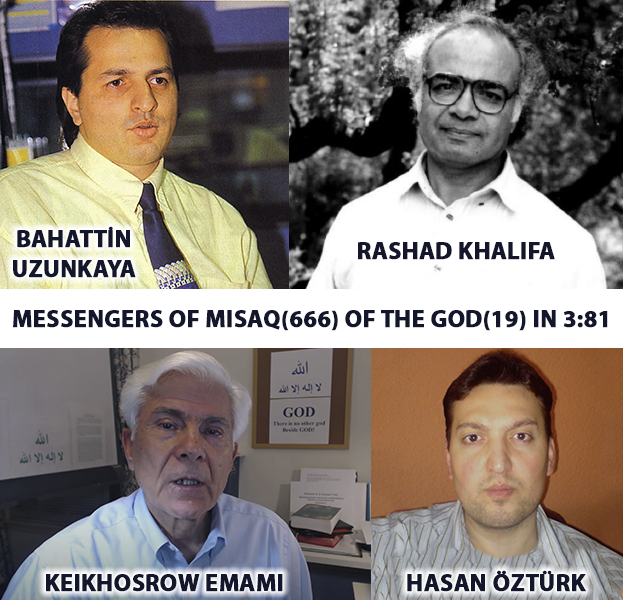
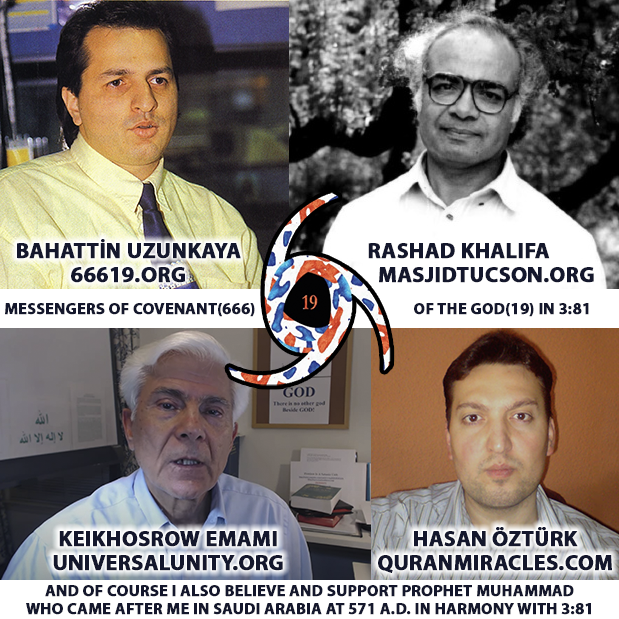
19

diff --git a/no_more_a_secret/index.html b/no_more_a_secret/index.html
@@ -110,11 +110,11 @@
 			<br><br>o christians! <span class="yellow">your being a transgressed society</span> can NOT cause no more of my hiding of that <span class="yellow">I am The Messiah Jesus: A Slave of THE GOD</span>, and EXACT KNOWLEDGE OF THE HOUR OF THE RESURRECTION, and what you call the number of the beast <span class="yellow">666</span>, as in fact signifies <span class="yellow">THE COVENANT misaQ(666) OF THE GOD</span> with HIS Prophets like me that <span class="yellow">we Prophets PROMISE TO THE GOD THAT WE WILL CERTAINLY BELIEVE AND CERTAINLY SUPPORT MESSENGERS OF THE GOD WHO CAME AFTER US(HENCE THE GOD HAS RESURRECTED ME)</span>, FOR ME THOSE MESSENGERS OF THE GOD WHO CAME AFTER ME ARE:
 				
 			<br>
-			<br>5. <a target="_blank" href="http://QURANMIRACLES.COM">HASAN ÖZTÜRK</a> <> (LIVING IN GERMANY & TURKEY),
-			<br>4. <a target="_blank" href="https://UNIVERSALUNITY.ORG">KEIKHOSROW EMAMI</a> <> (LIVING IN USA),
-			<br>3. <a target="_blank" href="https://web.archive.org/web/20111227043808/http://66619.org/">BAHATTİN UZUNKAYA</a> <> (LIVED IN TURKEY),
-			<br>2. <a target="_blank" href="https://MASJIDTUCSON.ORG">RASHAD KHALIFA</a> <> (LIVED IN USA),
-			<br>1. <a target="_blank" href="https://HONOURABLEQURAN.BLOGSPOT.COM">MUHAMMED BIN ABDULLAH</a> <> (LIVED IN SAUDI ARABIA),
+			<br>5. <a target="_blank" href="http://QURANMIRACLES.COM">HASAN ÖZTÜRK</a> <> (LIVING IN GERMANY & TURKEY <> <a target="_blank" href="http://QURANMIRACLES.COM">QURANMIRACLES.COM</a>),
+			<br>4. <a target="_blank" href="https://UNIVERSALUNITY.ORG">KEIKHOSROW EMAMI</a> <> (LIVING IN USA <> <a target="_blank" href="https://UNIVERSALUNITY.ORG">UNIVERSALUNITY.ORG</a>),
+			<br>3. <a target="_blank" href="https://web.archive.org/web/20111227043808/http://66619.org/">BAHATTİN UZUNKAYA</a> <> (LIVED IN TURKEY <> <a target="_blank" href="https://web.archive.org/web/20111227043808/http://66619.org/">66619.ORG</a>),
+			<br>2. <a target="_blank" href="https://MASJIDTUCSON.ORG">RASHAD KHALIFA</a> <> (LIVED IN USA <> <a target="_blank" href="https://MASJIDTUCSON.ORG">MASJIDTUCSON.ORG</a>),
+			<br>1. <a target="_blank" href="https://HONOURABLEQURAN.BLOGSPOT.COM">MUHAMMAD BIN ABDULLAH</a> <> (LIVED IN SAUDI ARABIA <> <a target="_blank" href="https://HONOURABLEQURAN.BLOGSPOT.COM">HONOURABLE GLORIOUS QURAN</a>),
 
 			<br><br>74:31 <span class="yellow">...None knows the soldiers of your OWNER EXCEPT HE...</span>
 				
